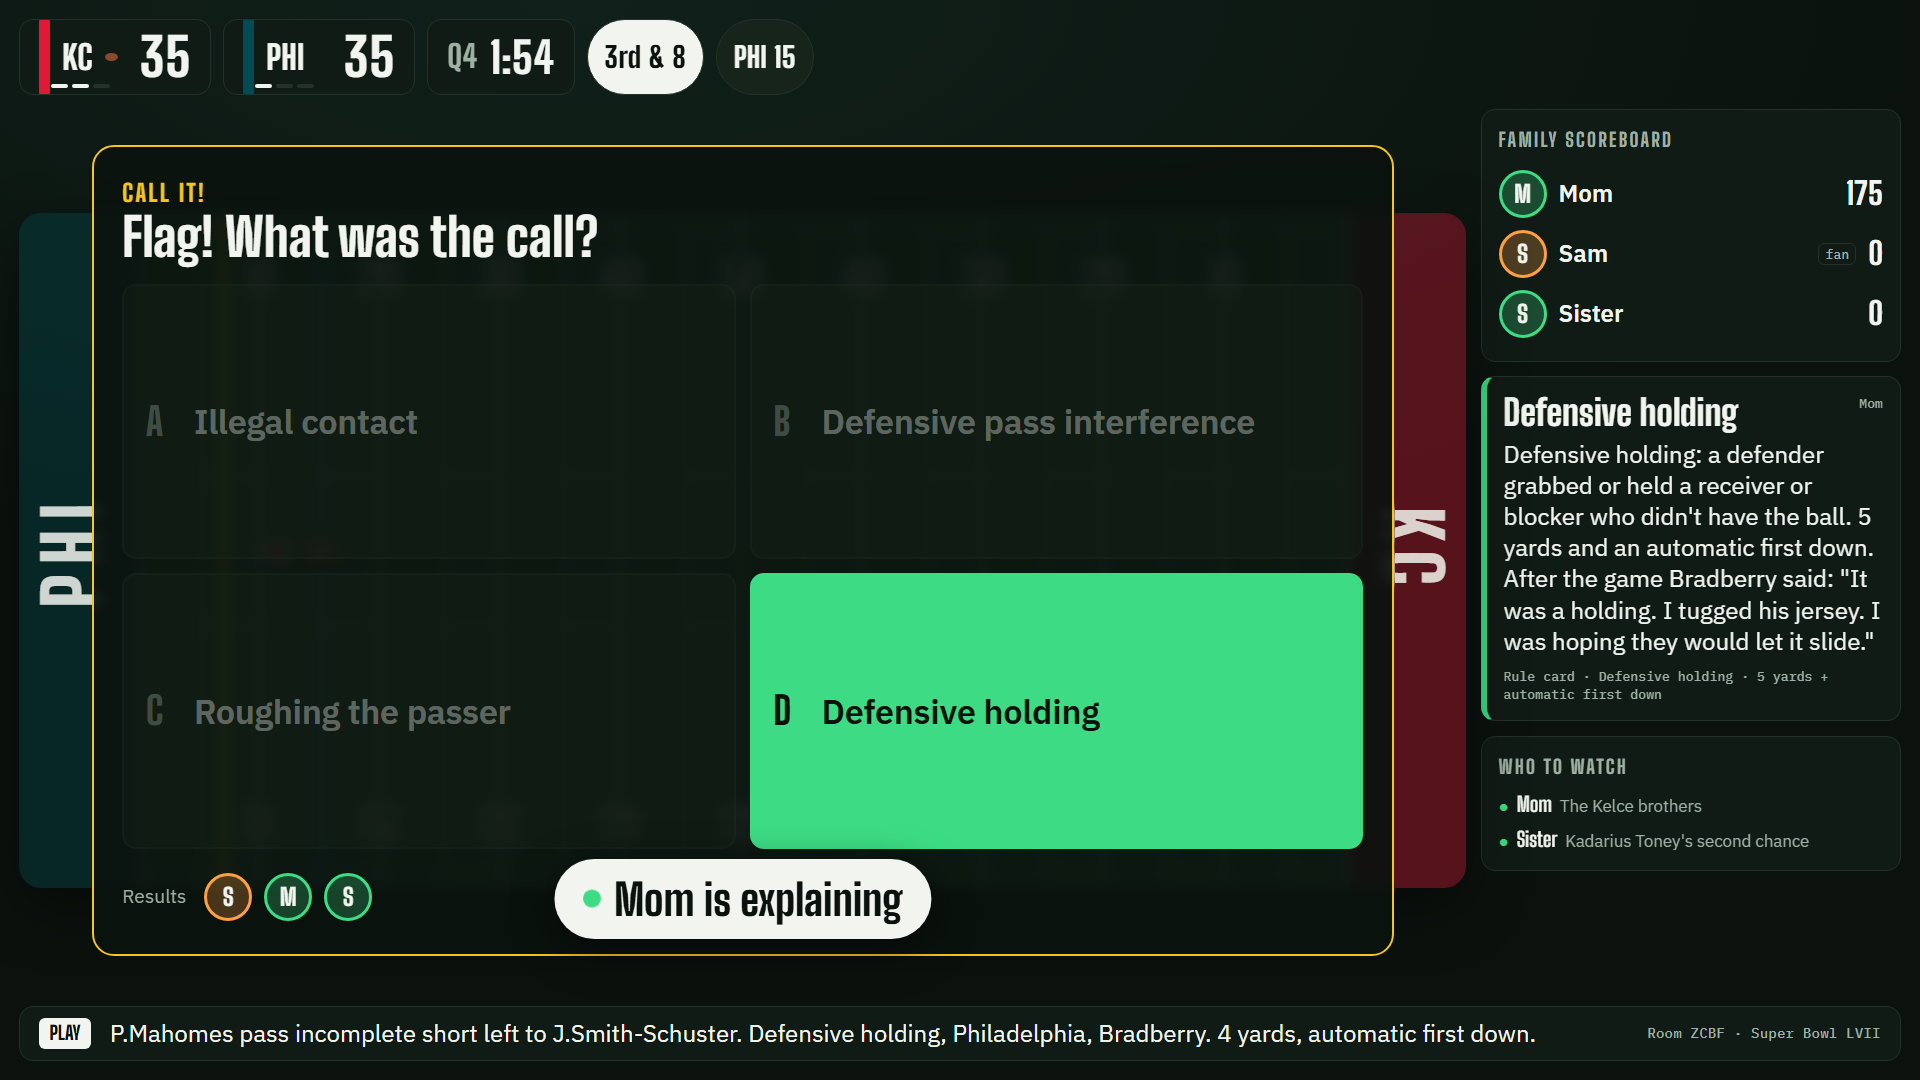
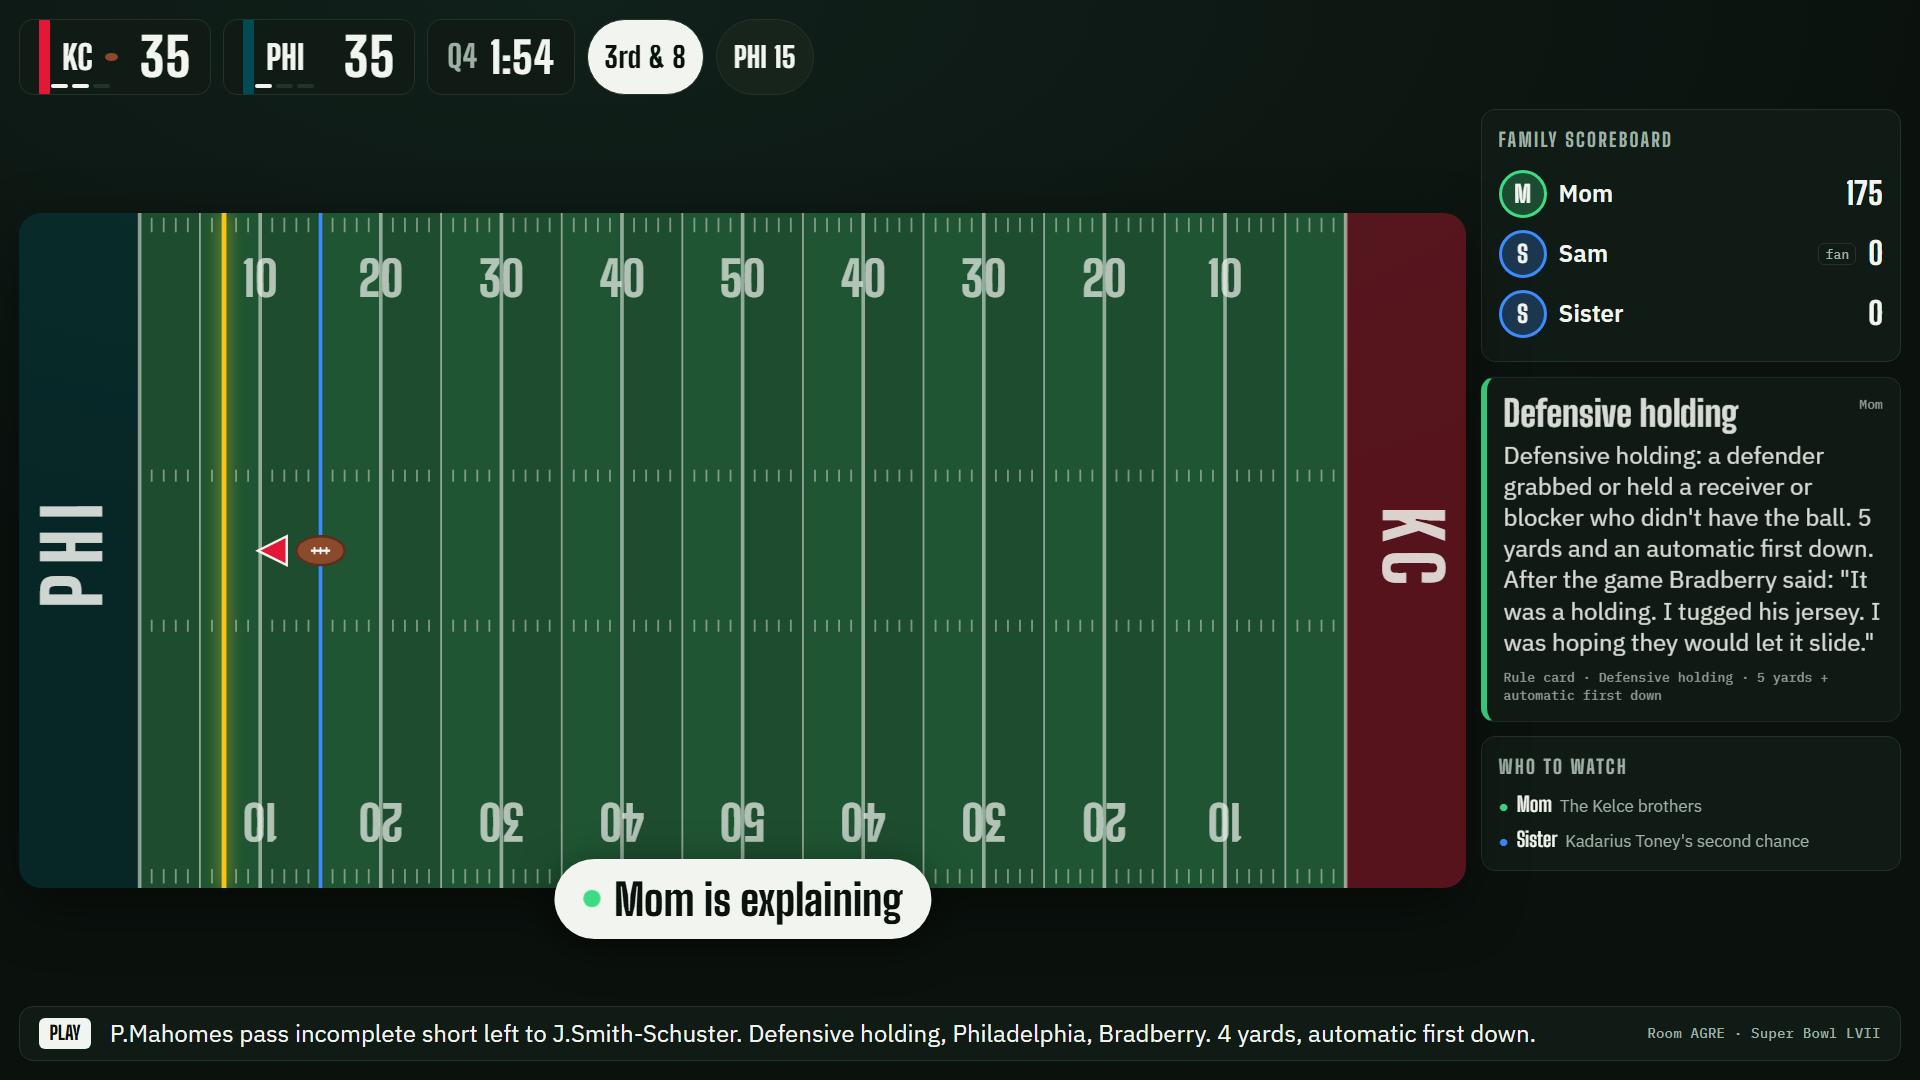
Land the review fixes in Room.ts; retune Game 4; docs screenshots
The previous commit (90688eb, "Fix review findings") did NOT contain
the Room.ts changes it describes. While checking that the new
regression tests fail on the old code I ran `git stash push Room.ts`,
then `git stash pop -q`; the pop failed silently (CRLF-normalization
conflict hidden by -q), so the commit shipped the tests and DECISIONS
but the old Room.ts. The regression tests were red on origin/main for
that one commit. Found on the final full run, restored from the stash.
Lesson: never -q a stash pop, and re-run the suite after it.

With decisions now always explained, the Game 1 vs Game 4 comparison
fell to 23%: Game 4 spoke on every decision through handoff passes
and "still confused" follow-ups. Tuning the preset one concept at a
time chased noise (51%, then 46% as the next concept surfaced), so the
preset now tells one story: after three games everyone knows the
everyday rules in the demo segments (4th downs, field goals, punts,
the clock, kneel-downs), and only the two showcase rules stay open,
with Mom above the others on both. Result: 83% fewer Huddle lines over
10 seeded runs, and every Game 4 run offers exactly two handoffs, to
Mom, on the two-point try and the holding call, which is the PRD demo.

docs/: screenshots from a Playwright walkthrough of the real UI
(setup, lobby, storylines, live field, Call It on TV and phone, the
reveal, Mom explaining, host dock, phone screens). README gallery,
video/sync/vision section, F8 line updated.
[…]

diff --git a/server/room/Room.ts b/server/room/Room.ts
@@ -631,7 +631,10 @@ export class Room {
   }
 
   /** Skip: close any open window early and cut the current pacing wait. */
+  private skips = 0;
+
   skip() {
+    this.skips++;
     for (const resolve of [...this.pendingPrompts.values()]) resolve(null);
     if (this.round?.open) this.round.close();
     for (const r of [...this.pendingSpeech.values()]) r();
@@ -993,9 +996,9 @@ export class Room {
     if (!candidates.length) return;
     const verdict = this.scheduler.canSpeak({ trigger, now: this.now(), qtr: play.qtr, windowOpen: this.windowsOpen > 0 });
     if (!verdict.ok) return;
-    // A decision explanation right after a storyline beat would crowd the room; flags always get theirs.
-    if (verdict.waitMs > 0 && trigger !== 'penalty') return;
-    if (afterBeat && trigger === 'decision') return;
+    // Flags and decisions always get their explanation (F4, F5); they wait out the minimum gap instead
+    // (e.g. after a storyline beat on the same play, like Hurts' two-point try).
+    void afterBeat;
 
     const handoffs: Record<string, string[]> = {};
     for (const c of candidates) {
@@ -1012,22 +1015,22 @@ export class Room {
     }, this.game.timeline.home, this.game.timeline.away);
     this.check(gen);
     if (decision.action === 'silent') return;
-    if (verdict.waitMs > 0) await this.pause(gen, verdict.waitMs);
+    // Re-check after the model call: the remaining gap has shrunk while it was thinking.
+    const again = this.scheduler.canSpeak({ trigger, now: this.now(), qtr: play.qtr, windowOpen: this.windowsOpen > 0 });
+    if (again.ok && again.waitMs > 0) await this.pause(gen, again.waitMs);
 
-    // Grounded detail: after a flag, the card may carry one unlocked fact about the flagged player.
-    if (decision.source === 'fallback' && trigger === 'penalty' && play.penalty?.player) {
+    // Grounded detail: after a flag, the card may carry one unlocked quote about the flagged player
+    // (e.g. Bradberry's), whether the card came from the model or the template.
+    if (trigger === 'penalty' && play.penalty?.player) {
       const fact = this.playerFacts(play).find((f) => f.includes(lastName(play.penalty!.player!)) && f.includes('"'));
-      if (fact && decision.card.body.length + fact.length < 279) decision.card = { ...decision.card, body: `${decision.card.body} ${fact}` };
+      if (fact && !decision.card.body.includes(fact) && decision.card.body.length + fact.length < 279) decision.card = { ...decision.card, body: `${decision.card.body} ${fact}` };
     }
 
-    const exposed = new Set(this.connectedLearners.map((l) => l.id));
     const target = decision.action === 'handoff' && decision.handoffTo ? this.players.get(decision.handoffTo) : undefined;
     if (target && target.connected) await this.flowHandoff(gen, play, trigger, decision, target);
     else await this.flowExplain(gen, play, trigger, decision);
-    for (const id of exposed) {
-      const p = this.players.get(id);
-      if (p) addExposure(p.knowledge, decision.conceptId);
-    }
+    // Everyone connected now (after the explanation) was in the room for it.
+    for (const p of this.connectedLearners) addExposure(p.knowledge, decision.conceptId);
     this.knowledgeChanged();
     this.touch();
   }
@@ -1074,6 +1077,7 @@ export class Room {
   }
 
   private async humanExplain(gen: number, play: TimelinePlay, trigger: Trigger, who: Player, decision: Extract<DirectorDecision, { action: 'explain' | 'handoff' }>) {
+    const skipsAtStart = this.skips;
     this.explaining = { playerId: who.id, name: first(who.name) };
     this.setCard(this.explainCard(decision, first(who.name), 'human'));
     await this.ask<boolean>(who, { id: nanoid(8), kind: 'done', title: decision.card.title, cheat: decision.cheat, closesAt: this.now() + this.win(WINDOWS.humanExplainMaxMs) }, this.win(WINDOWS.humanExplainMaxMs));
@@ -1093,6 +1097,8 @@ export class Room {
     this.scheduler.spoke({ now: this.now(), qtr: play.qtr, countsToBudget: trigger === 'play' });
     this.touch();
 
+    // Host pressed Next during the explanation: don't open a second round of prompts.
+    if (this.skips !== skipsAtStart) return;
     const listeners = this.connectedLearners.filter((l) => l.id !== who.id);
     const answers = await Promise.all(listeners.map((l) =>
       this.ask<'got_it' | 'confused'>(l, { id: nanoid(8), kind: 'feedback', title: decision.card.title, by: first(who.name), closesAt: this.now() + this.win(WINDOWS.feedbackMs) }, this.win(WINDOWS.feedbackMs))));

diff --git a/tests/knowledge.test.ts b/tests/knowledge.test.ts
@@ -53,13 +53,14 @@ describe('F8 knowledge levels', () => {
     const slot1 = presetKnowledge(preset, 0);
     expect(level(slot1.downs)).toBe('mastered');
     expect(level(slot1.holding_defensive)).toBe('familiar');
+    expect(level(slot1.fourth_down_decision)).toBe('mastered');
     const slot2 = presetKnowledge(preset, 1);
     expect(level(slot2.holding_defensive)).toBe('seen');
     expect(level(slot2.first_down_line)).toBe('mastered');
-    expect(level(slot2.field_goal)).toBe('familiar');
+    expect(level(slot2.two_point_conversion)).toBe('familiar');
     const slot5 = presetKnowledge(preset, 4);
     expect(level(slot5.downs)).toBe('mastered');
-    expect(level(slot5.punt_return)).toBe('seen');
+    expect(level(slot5.punt_return)).toBe('mastered');
     expect(level(slot5.holding_defensive)).toBe('seen');
     expect(level(slot5.safety)).toBe('new');
   });

diff --git a/README.md b/README.md
@@ -12,7 +12,13 @@ A laptop drives the TV (the shared screen). Everyone joins on their phone, which
 
 Product requirements: [`docs/PRD.md`](docs/PRD.md). Implementation spec: [`BUILD_PROMPT.md`](BUILD_PROMPT.md). Choices and deviations: [`DECISIONS.md`](DECISIONS.md).
 
-![Call It on the TV](docs/tv-callit.png)
+| Shared screen: Call It on the Bradberry flag | Phone: Call It |
+|---|---|
+| ![Call It on the TV](docs/tv-callit.png) | <img src="docs/phone-callit.png" width="260" alt="Call It on a phone"> |
+| **After the call: a learner explains (handoff)** | **Lobby** |
+| ![Mom is explaining](docs/tv-explain.png) | ![Lobby with room code and QR](docs/tv-lobby.png) |
+
+More in [`docs/`](docs/): setup, storylines, live field, host dock, phone join/profile/waiting.
 
 ## PRD traceability
 
@@ -27,7 +33,7 @@ Status: **done** = implemented and verified by the named test or script. "Manual
 | F5 | Call It | P0 | done | `server/game/callit.ts`, `Room.fetchCallIt` / `onFlag` / `onAnnounced`, `web/src/components/tv/PromptOverlay.tsx` | `callit.test.ts` (real penalty always among 4 distinct catalog options, junk LLM output → table, deterministic); **`spoilers.test.ts`** (every message, TTS line and non-Call It model input); `npm run smoke` (Call It on 3rd & 8 at PHI 15). |
 | F6 | The Director | P0 | done | `server/director/scheduler.ts`, `director.ts`, `templates.ts`, `server/ai/*`, `web/src/lib/tts.ts` | `scheduler.test.ts` (budgets, gap, windows, silence); `room.test.ts` (budgets in a real room, mute is immediate); `llm.test.ts` (slow model → template within 4 s); `npm run simulate` (quiet / normal / chatty budgets over a full game). |
 | F7 | "I got this" and role reversal | P0 | done | `Room.flowExplain` / `flowHandoff` / `humanExplain`, `web/src/components/phone/Prompts.tsx` | `room.test.ts` "F7" (take-it → fan explains, Still confused → short version; decline → Huddle within 1 s; handoff → +100 and Mastered); `npm run smoke` (offer after the call). |
-| F8 | Knowledge tracking and fade | P0 | done | `server/game/knowledge.ts`, `server/persistence/families.ts`, `data/presets/game1.json`, `game4.json` | `knowledge.test.ts` (every threshold, room level, handoff candidates, presets); `npm run simulate` (Game 4 preset: 58% fewer Huddle lines over segments A–C, 10 seeded runs); TV shows "Simulated: Game 4 knowledge". |
+| F8 | Knowledge tracking and fade | P0 | done | `server/game/knowledge.ts`, `server/persistence/families.ts`, `data/presets/game1.json`, `game4.json` | `knowledge.test.ts` (every threshold, room level, handoff candidates, presets); `npm run simulate` (Game 4 preset: 83% fewer Huddle lines over segments A–C, 10 seeded runs; Game 4 hands the two-point and holding explanations to Mom); TV shows "Simulated: Game 4 knowledge". |
 | F9 | Family scoreboard | P0 | done | `server/game/scoring.ts`, `web/src/components/tv/Rail.tsx` | `scoring.test.ts` (points, contrarian bonus, first-correct bonus, fan handicap, tie-break); `room.test.ts` "F9/F10" (board updates ≤ 0.5 s after a reveal). |
 | F10 | Post-game recap | P0 | done | `server/game/recap.ts`, `Room.onFinal`, `web/src/components/phone/PhoneRecap.tsx`, `Stages.tsx` | `room.test.ts` "F9/F10" (ready ≤ 8 s after the final whistle, lists concepts learned tonight); `npm run simulate` and `npm run smoke` (recap reached). Manual: Copy for group chat on a real phone. |
 | F11 | Plain-English ticker | P1 | done | `server/game/ticker.ts` (`plainTicker`), `Room.prefetchTicker` | `llm.test.ts` "F11" (rewrite used; a rewrite naming a penalty is rejected; "Flag on the play" kept; model sees only cleaned text); `spoilers.test.ts` covers ticker model inputs. |
@@ -89,6 +95,12 @@ The live-model path was **not** exercised in this build environment (no API key 
 - **Hotkeys:** Space play/pause · N next play · 1–9 segments · J jump list · M mute · T cycle talkativeness · G toggle the Game 4 preset · H host dock · Enter advance lobby / profiles / storylines.
 - **The fade:** press **G** before a segment to seed "Game 4" knowledge. The TV shows "Simulated: Game 4 knowledge"; Huddle stays quieter and hands explanations to learners. Knowledge seeds by **learner join order**: have Mom join first (slot 1 knows defensive holding).
 - **Recording:** use Demo pacing, record the TV window with a screen recorder and the couch with a separate camera. Keep a backup take. Don't put broadcast footage in the public video.
+
+## Video mode, sync tool, vision lab (P1)
+
+- **Vision lab** (`/lab/vision`): upload any broadcast screenshot; Llama 4 Scout reads the scorebug (down, distance, clock, score, FLAG) and the page shows the JSON. Needs a provider in `.env`; in mock mode it answers "no scorebug visible".
+- **Video mode:** pick a local video of the game on the setup page (or "Load game video" in the host dock). It stays on the laptop and is never uploaded. The TV shows the video instead of the drawn field. It pauses during Predict and Call It windows, and from the flag until the announcement, so the broadcast can't give the call away. Every 2 s the TV reads the scorebug ("Huddle sees: …" in the host dock, with a warning when it disagrees with the play data). At each flag the frame goes to the Call It model.
+- **Sync tool** (`/sync/2022_22_KC_PHI`): play the video and press Space at every snap. Save writes `data/games/<id>/video_sync.json`. Synced plays wait for the video to reach their snap. Unsynced plays use normal pacing.
 
 ## Before demoing: team review
 

diff --git a/DECISIONS.md b/DECISIONS.md
@@ -13,7 +13,7 @@ One line per ambiguous choice made during the build.
 - Moment and segment labels sent to the TV are spoiler-free ("Q4 1:54 · KC · 3rd & 8 at PHI 15"); labels with features (Flag, Score…) stay in `moments.json` for logs.
 - The test fixture `data/fixtures/mini_game.json` is written as nflverse-style rows and built through the real pipeline (`loadFixture()`), so tests cover the builder too. It has 20 plays.
 - Preset files seed knowledge levels by slot: Seen = 1 exposure, Familiar = 2 exposures + 1 recall ("you called this last time"), Mastered = 3 exposures + 1 recall; "basics" = every concept with category `basics`. A learner who turns out to be the fan is dropped from the slots and the preset is re-applied.
-- `game4.json` keeps every item from BUILD_PROMPT 6.8 and adds everyday concepts three games of watching would cover (third down, incomplete pass, timeout, kneel-down…), tuned until `simulate` shows ≥ 50% fewer Huddle lines. Thresholds unchanged.
+- `game4.json` keeps BUILD_PROMPT 6.8's shape but raises everyday rules in the demo segments (4th downs, field goals, punts, the clock, kneel-downs) to Mastered for every slot: three games in, the family knows them. The two showcase rules stay open: slot 1 (Mom) is Familiar on defensive holding and the two-point try with the others below her, so Huddle hands those to her (every simulated Game 4 run offers exactly those two handoffs). Tuned until `simulate` shows ≥ 50% fewer Huddle lines (83% now). Thresholds unchanged.
 - "Huddle-spoken lines" (budgets, the Game 1 vs Game 4 comparison) = Director explanation lines Huddle speaks (full or short). Referee announcements, storyline intros, halftime/final lines and people's explanations don't count; storyline beats count toward the minimum gap but not the budget.
 - The preset comparison runs 10 seeded bot runs of segments A–C at demo pacing and compares totals: bot choices (take-its, handoffs, Call It accuracy) are random, and single runs of ~3 lines were too noisy to measure a 50% change.
 - Simulation bots play like their knowledge: a learner at Familiar or better on the flagged concept calls it right 90% of the time and never taps "Still confused".
